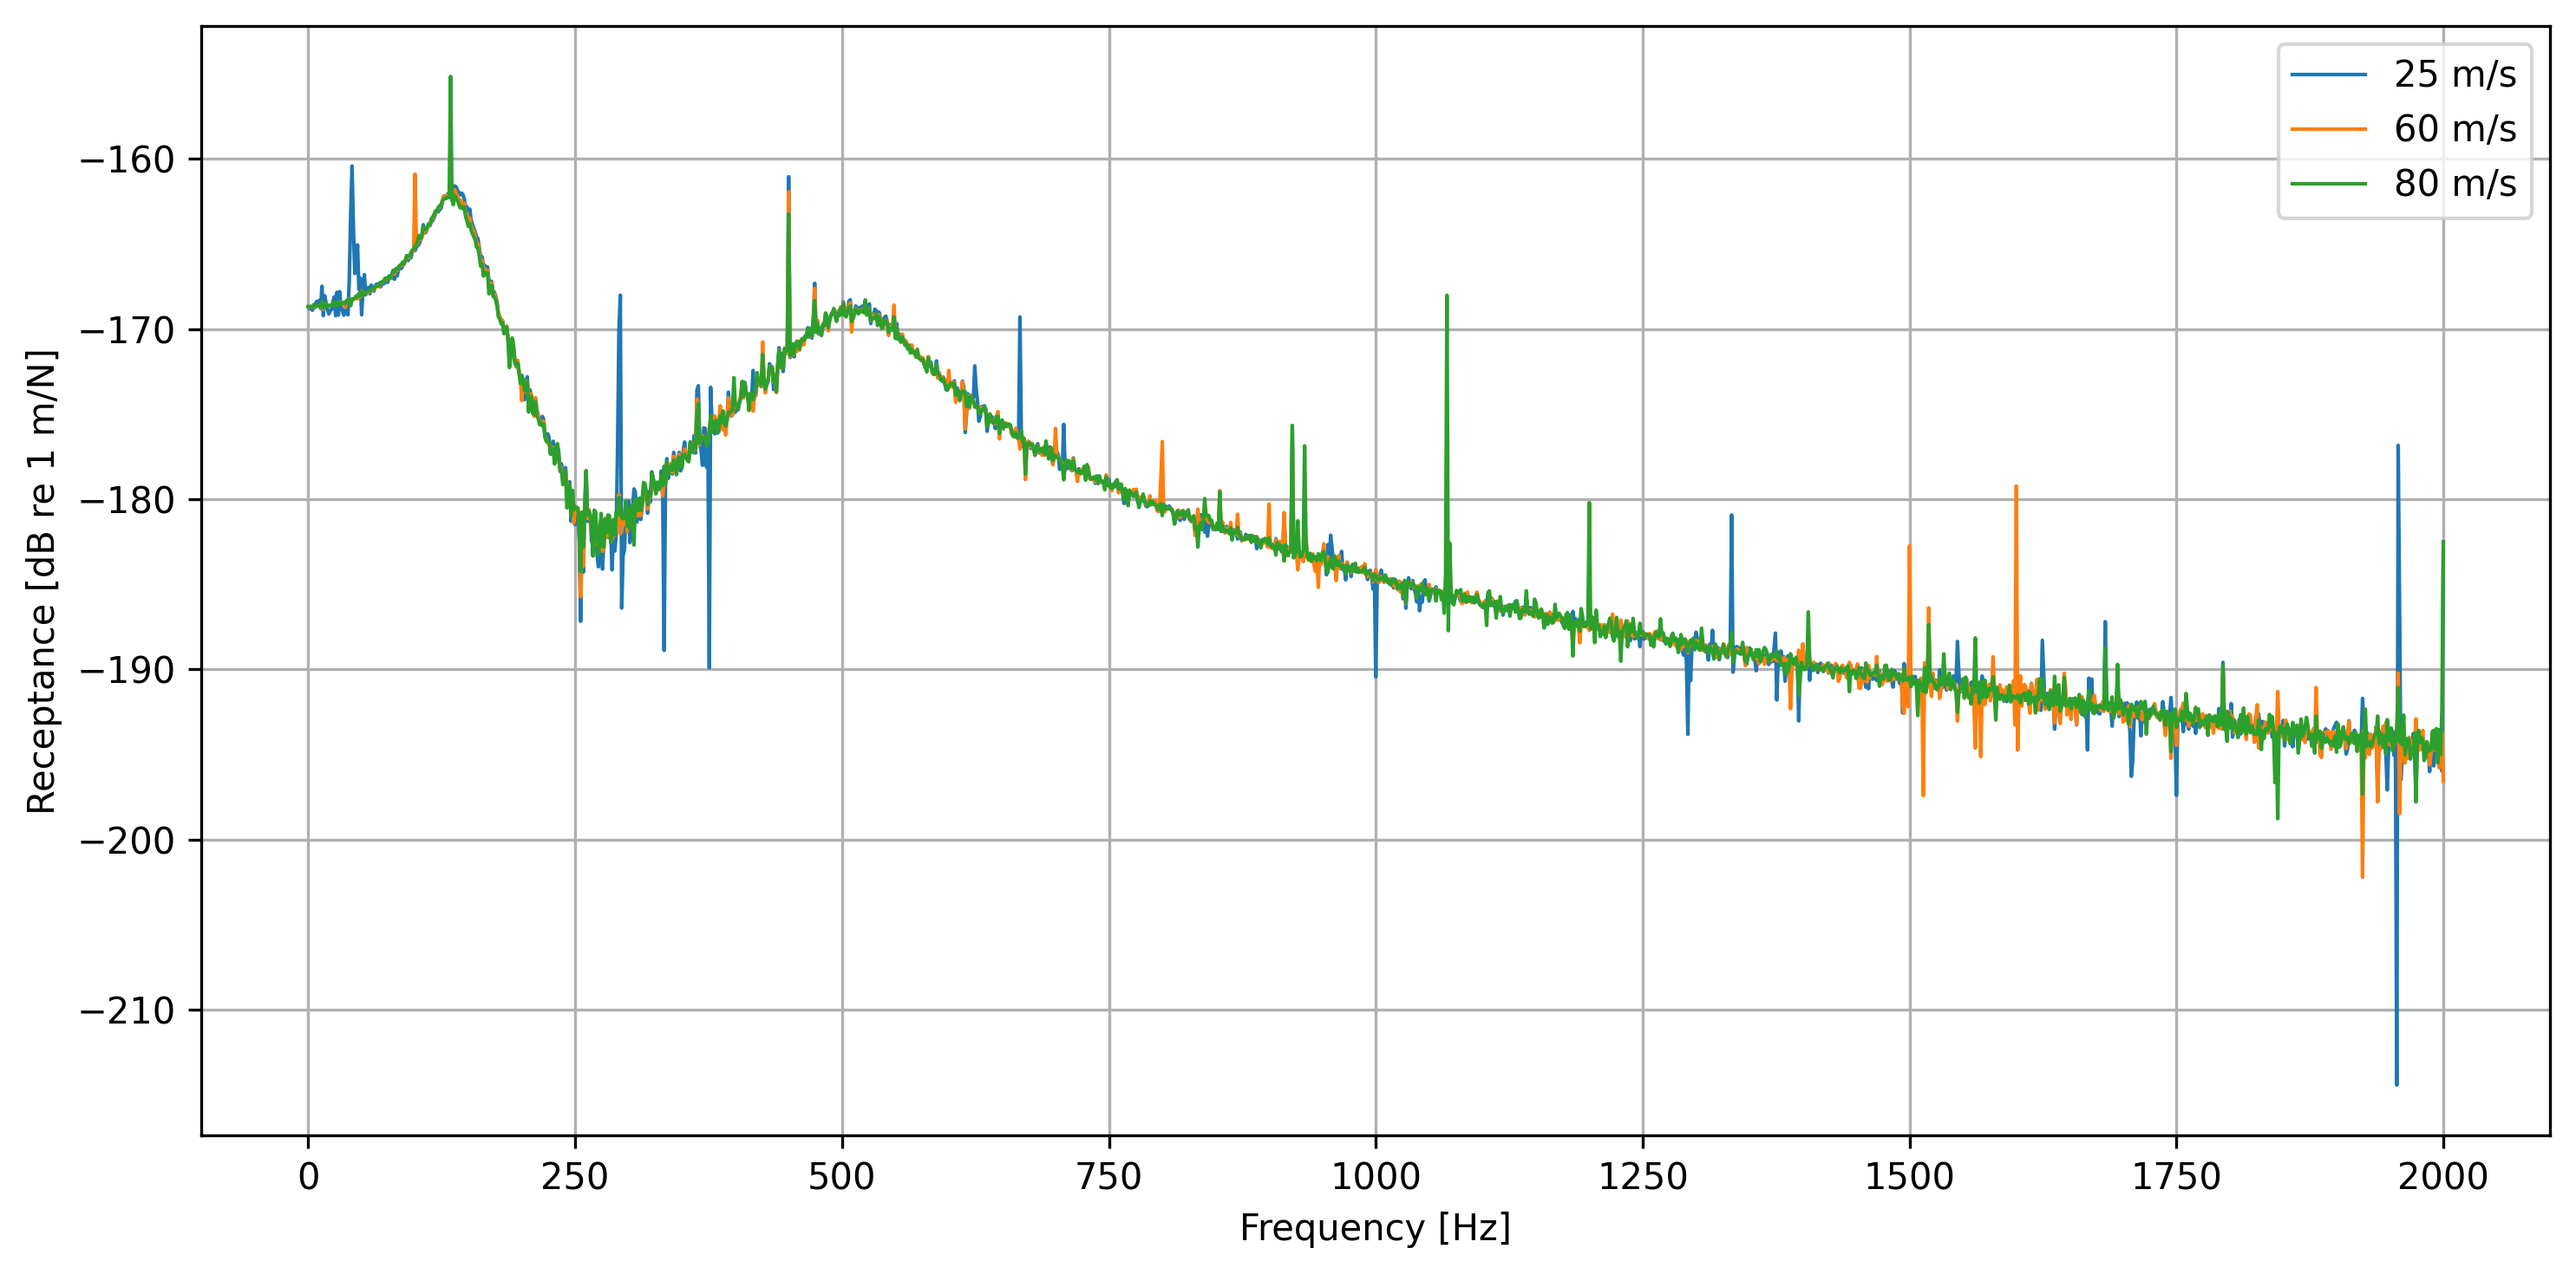
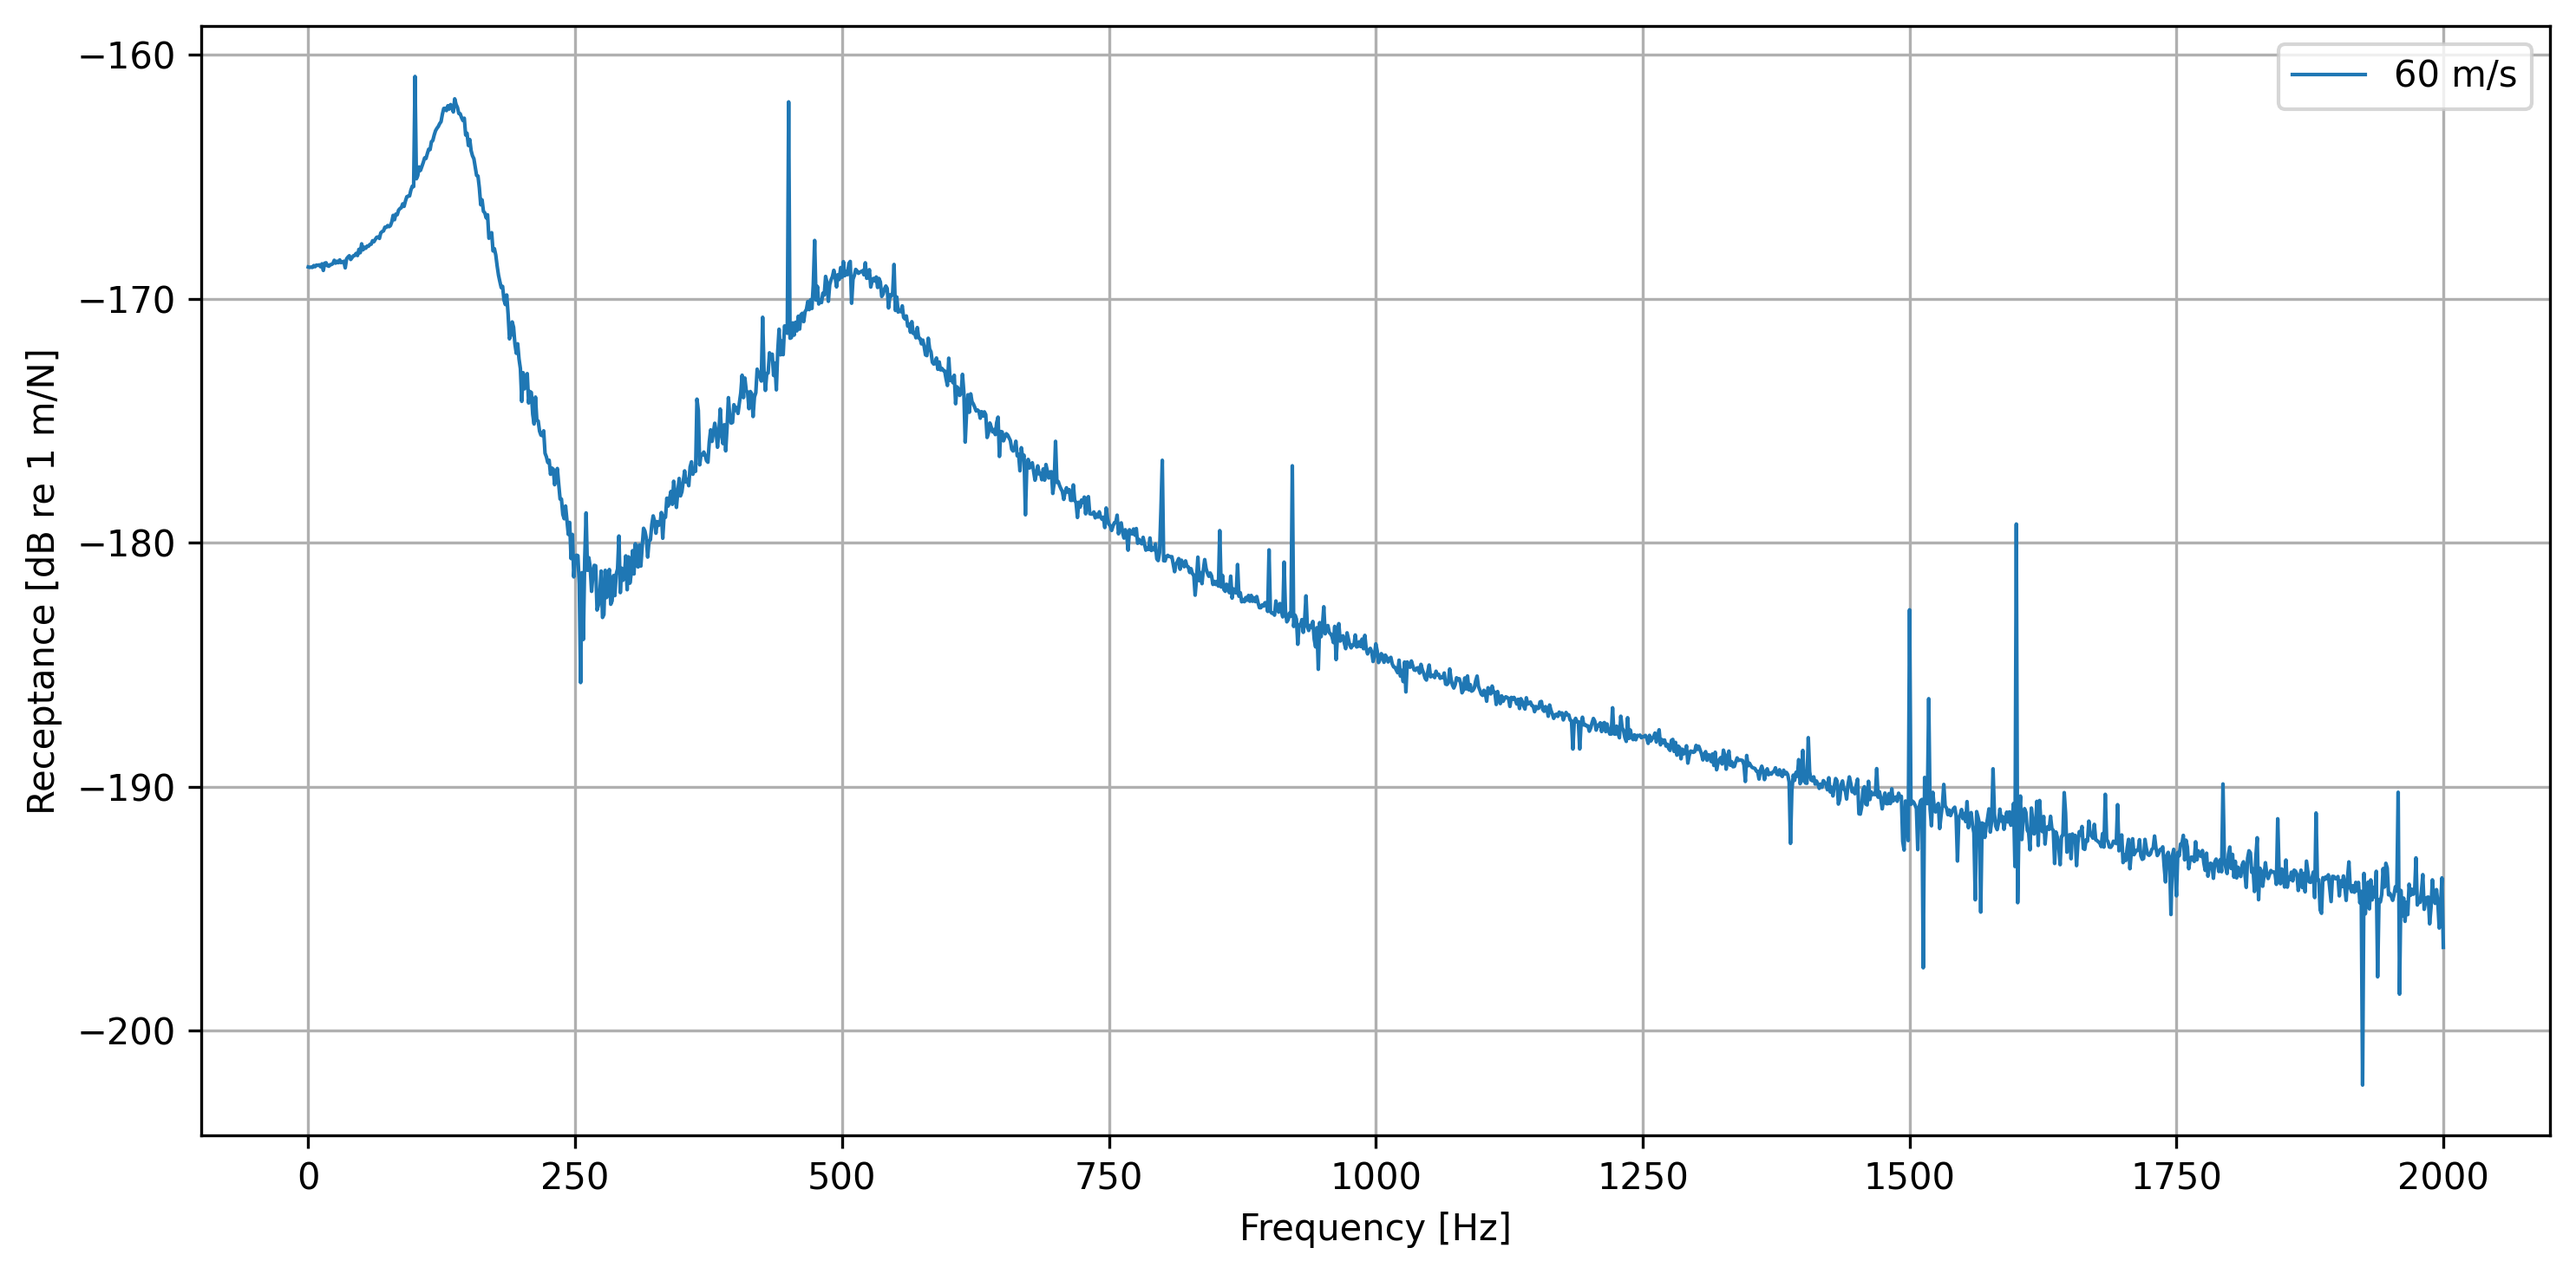
added relative path to nordborg data

diff --git a/Moving_Force.py b/Moving_Force.py
@@ -40,8 +40,8 @@ num_mount           = 400       # Number of discrete mounting positions
 l_bound             = 40.0      # width of boundary domain
 req_simt            = 1         # Required simulation time [s]
 dt                  = 2.2e-5      # time step [s]
-# velocities          = [60]      # Velocities to simulate [m/s]
-velocities          = [25, 60, 80]      # Velocities to simulate [m/s]
+velocities          = [60]      # Velocities to simulate [m/s]
+# velocities          = [25, 60, 80]      # Velocities to simulate [m/s]
 # velocities          = np.arange(5, 101, 5)  # 5 to 100 m/s in 5 m/s steps
 ramp_fraction       = 0.1       # fraction of total time for ramp up
 force_amplitude     = 65000.0    # Force amplitude [N]
@@ -192,7 +192,7 @@ for vel in velocities:
 
             # Optional:
             # fetch Nordborg data for comparison
-            with open('C:/Users/Alex/repositories/rolland/nordborg_data_sharp.csv') as csv_file:
+            with open('nordborg_data_sharp.csv') as csv_file:
                 csv_reader = csv.reader(csv_file, delimiter=';')
                 frequencies = []
                 receptances = []
